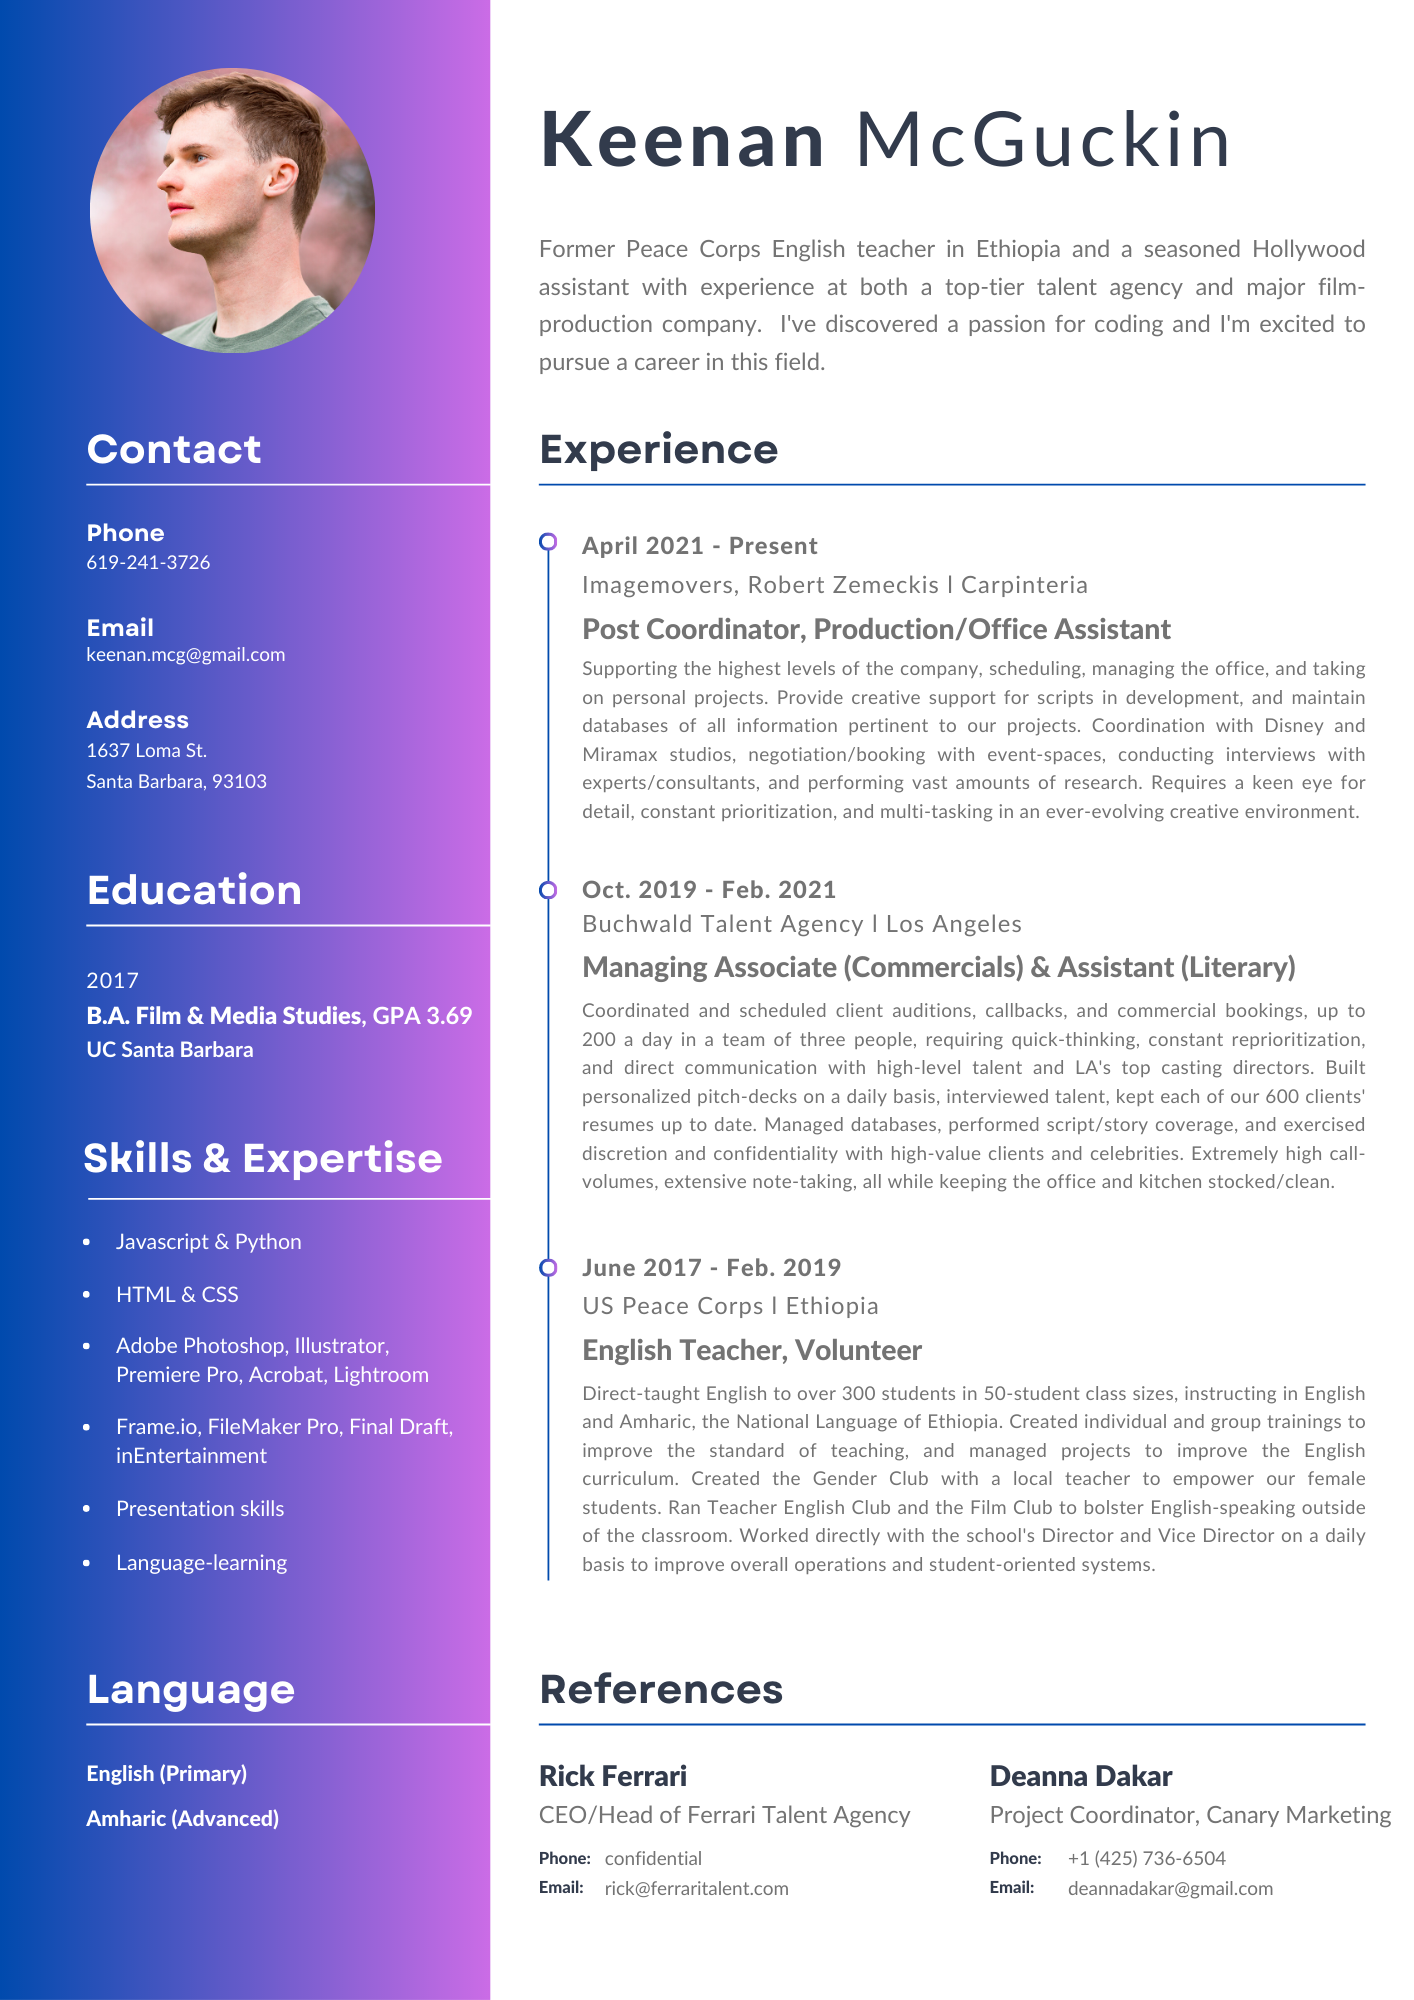
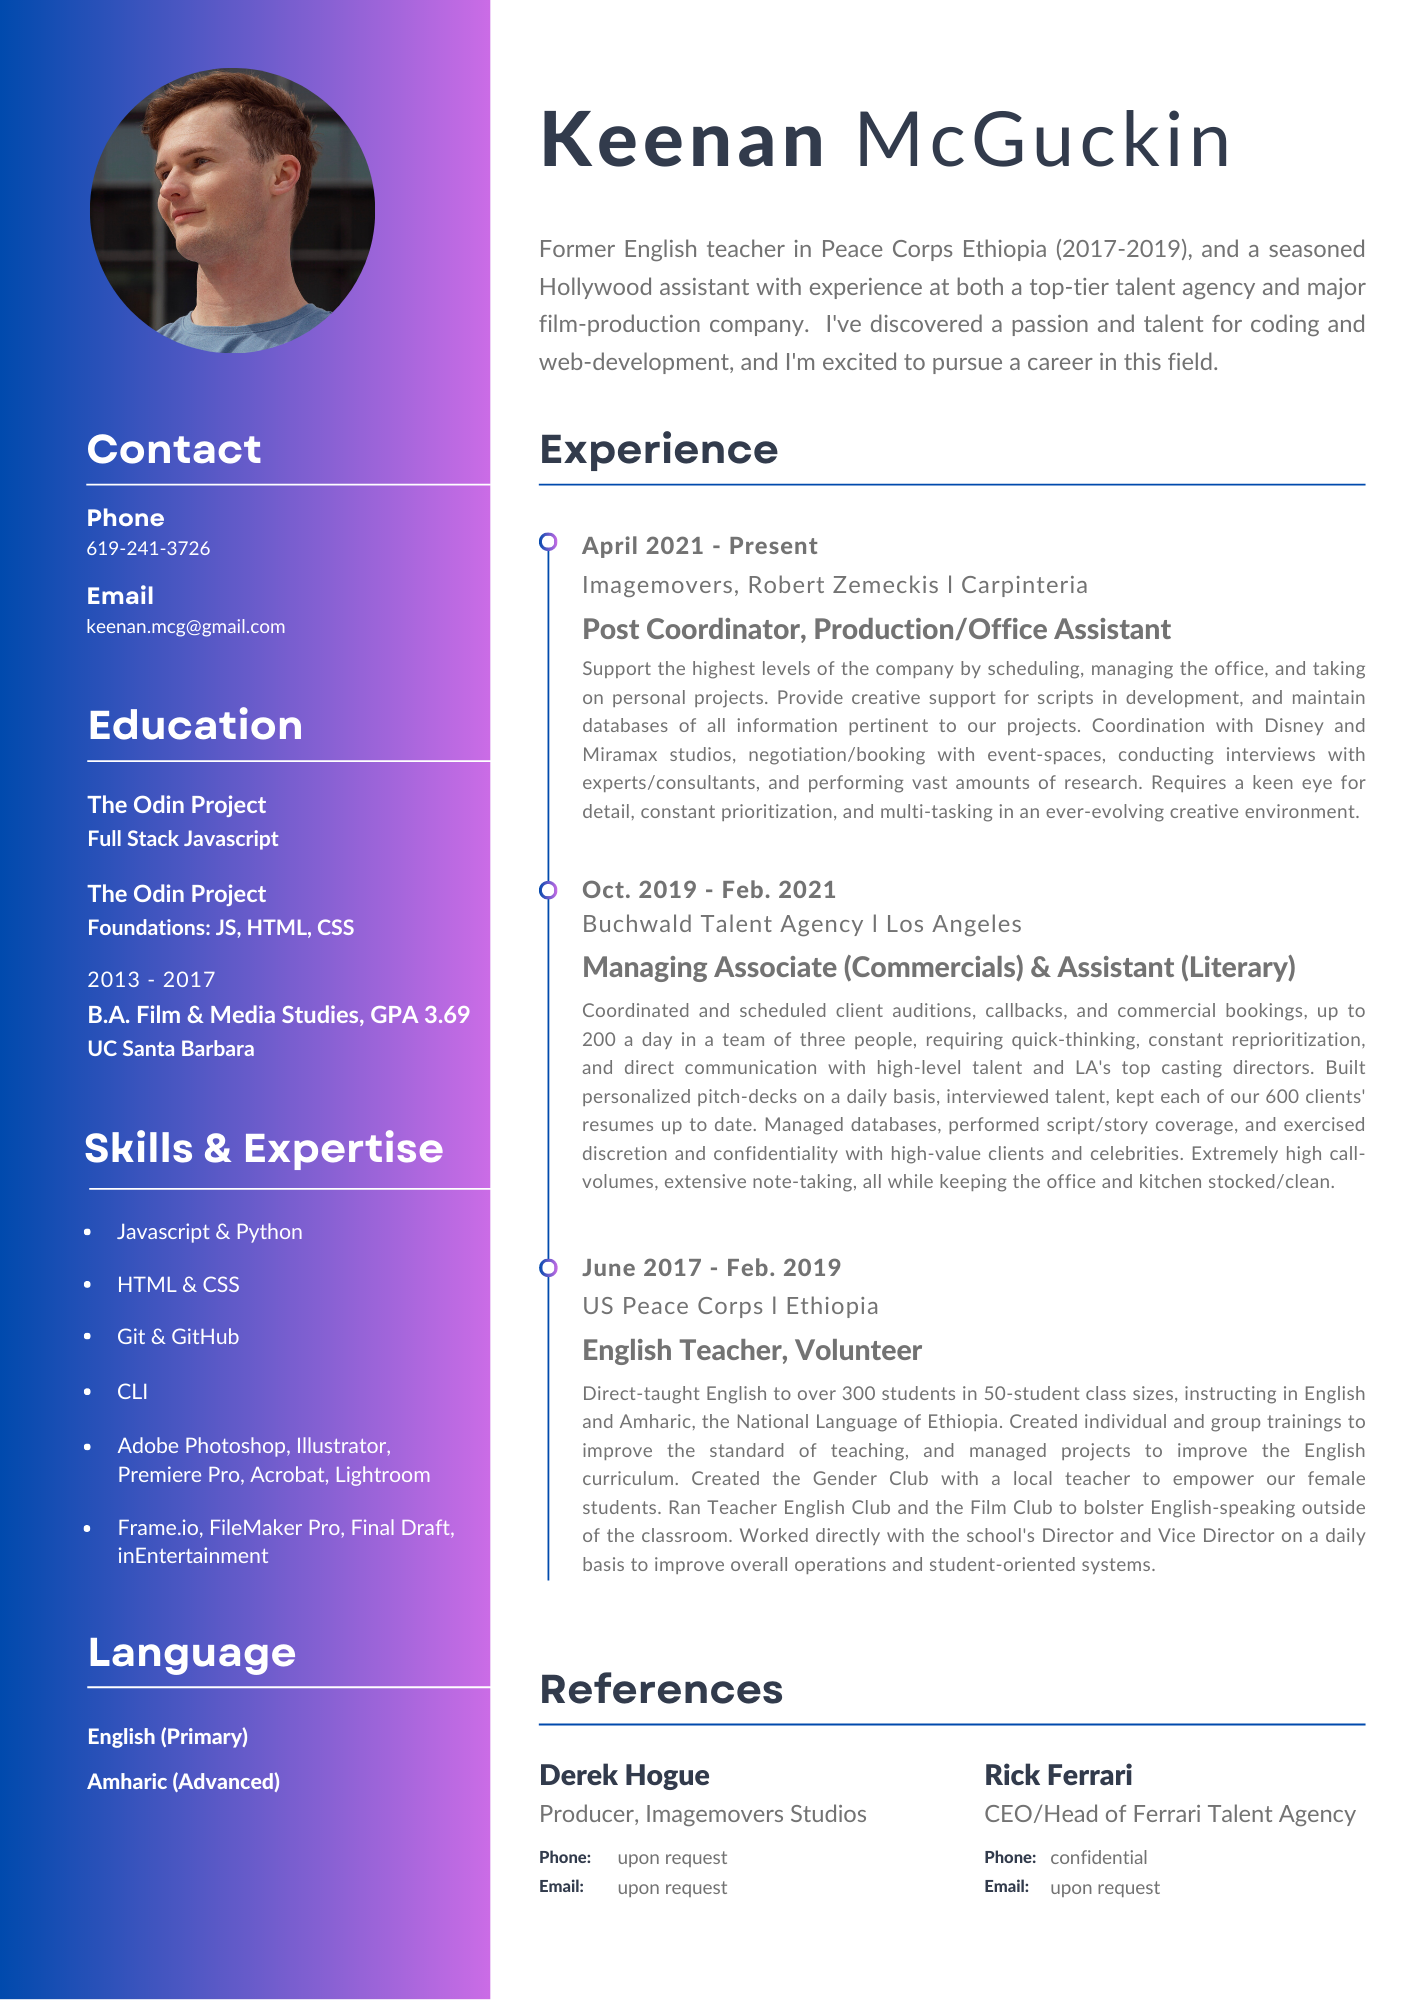
Update resume, mod pics for fast load

diff --git a/index.html b/index.html
@@ -37,7 +37,7 @@
                     Currently learning full-stack JS. Eagerly jumping into backend. <br>Big goals in mind.</p>
             </div>
             <div id="avatar">
-                <img class="tempAvatar" src="images/paraglide.jpeg" />
+                <img class="tempAvatar" src="images/keenan_main.jpg" />
                 <h6 class="avatarText">text</h6>
                 <h6 class="avatarTextRow2 #3F497F">text</h6>
             </div>

diff --git a/styles.css b/styles.css
@@ -470,25 +470,6 @@ a:active {
     width: 900px;
 }
 
-.veryFun {
-    scale: 0.25;
-    position: absolute;
-    margin-left: -960px;
-    margin-top: -390px;
-    rotate: 5deg;
-    opacity: 0;
-    animation: fadeIn 3s ease 3s forwards;
-}
-
-@keyframes fadeIn {
-    from {
-        opacity: 0;
-    }
-    to {
-        opacity: 1;
-    }
-}
-
 #homeBtn {
     height: 40px;
     width: 47px;

diff --git a/resume.html b/resume.html
@@ -14,7 +14,6 @@
     <div class="homeBtn"><a href="index.html"><img id="homeBtn" src="images/home.png"/></a></div>
     <div class="resumeContainer">
         <img id="resume2" src="images/TechResume.png" alt="Keenan's Resume">
-        <img id="veryFun" class="veryFun" src="images/veryFun2.png" alt="he has jokes!"/>
     </div>
 </body>
 </html>
